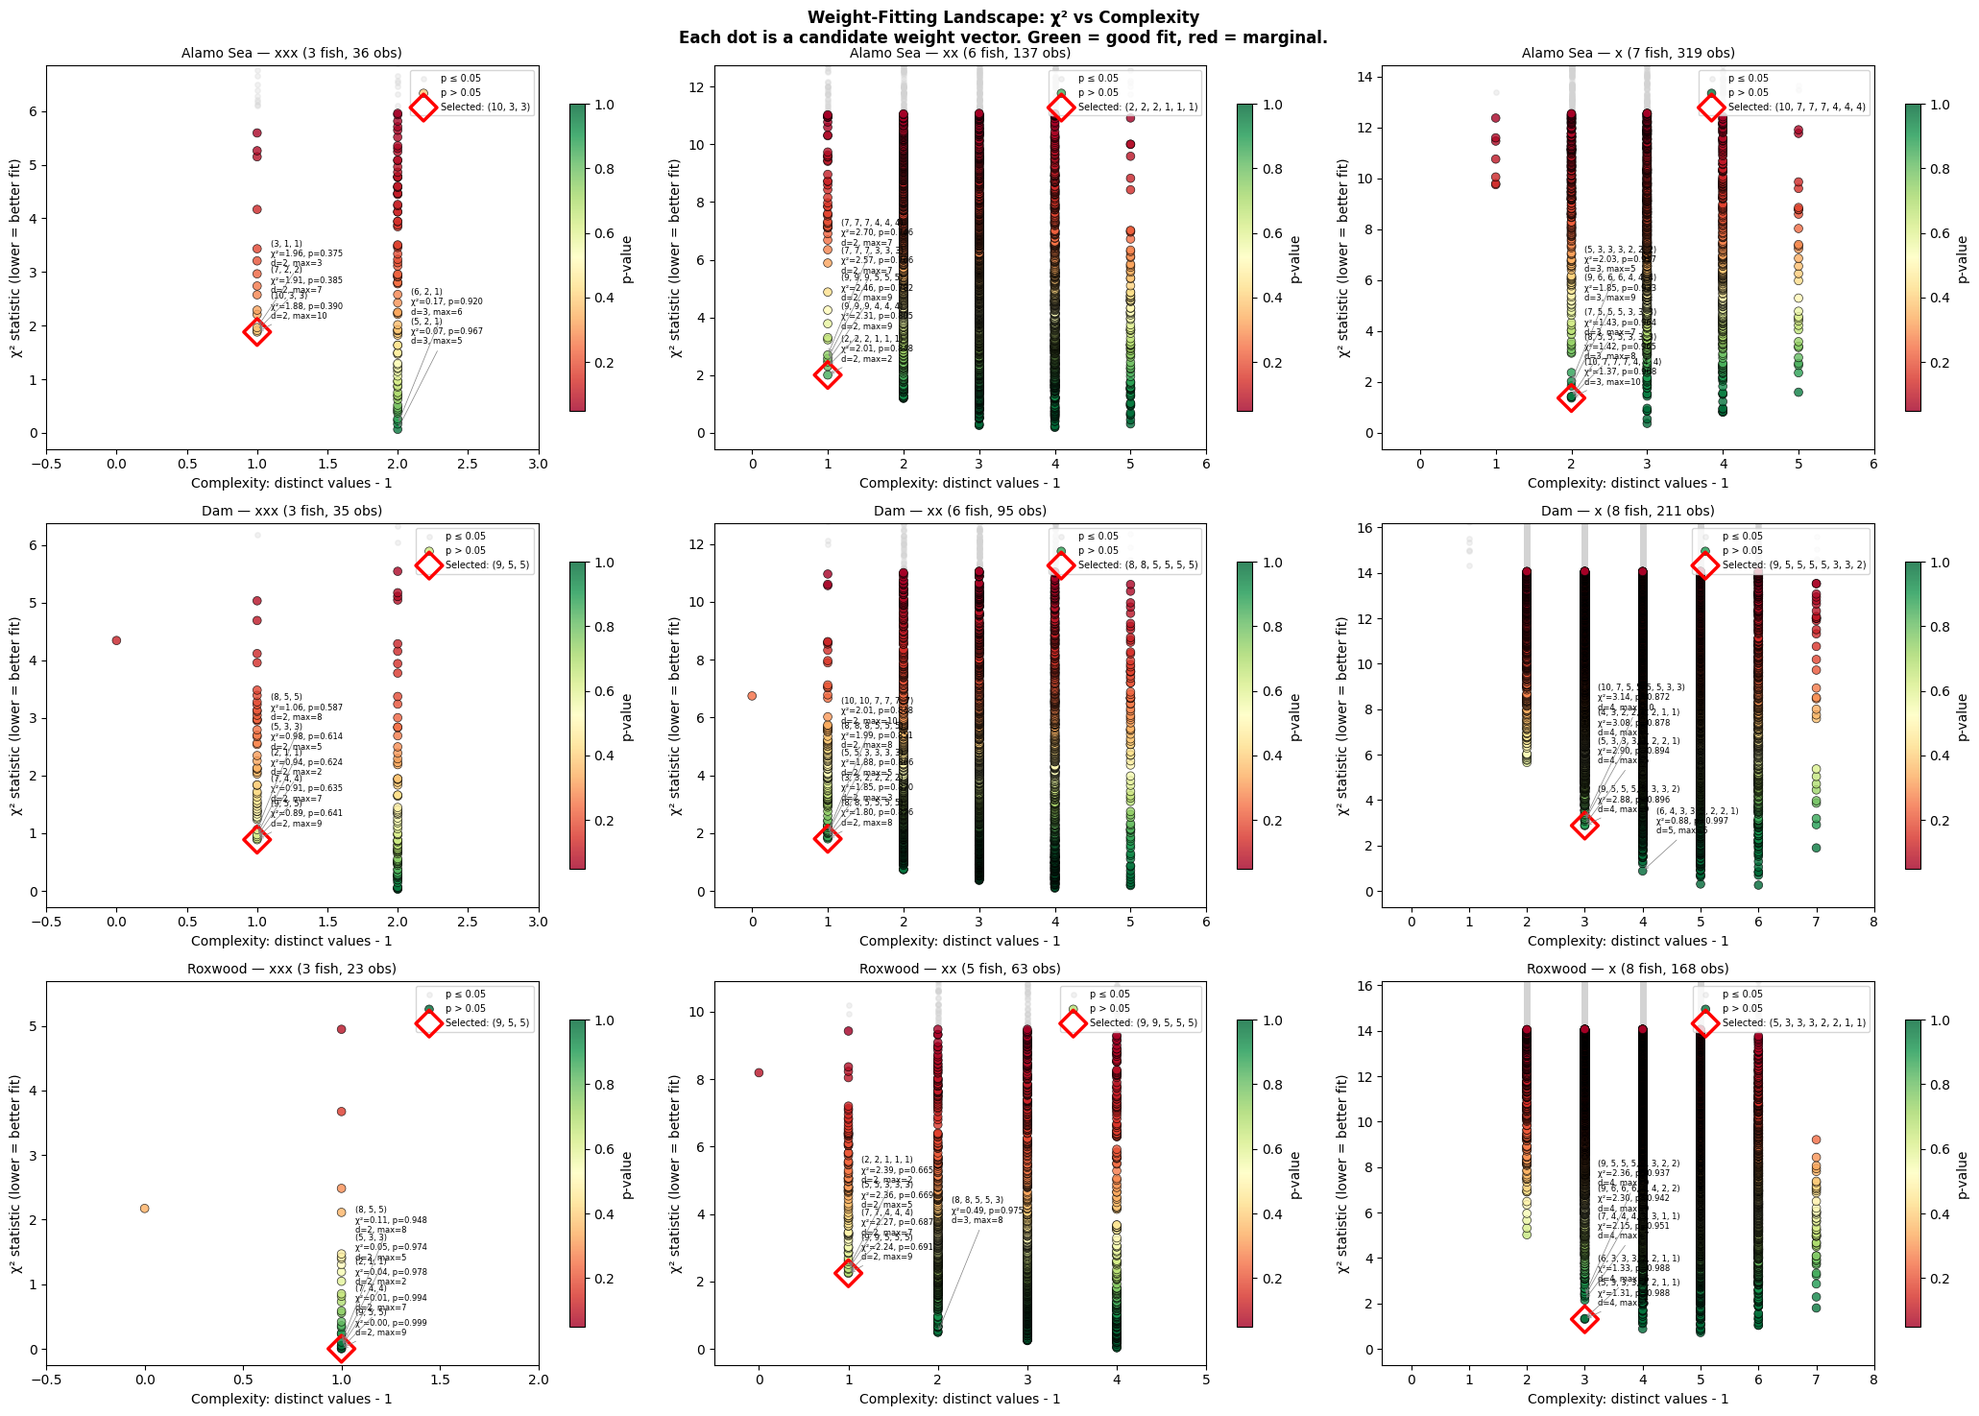
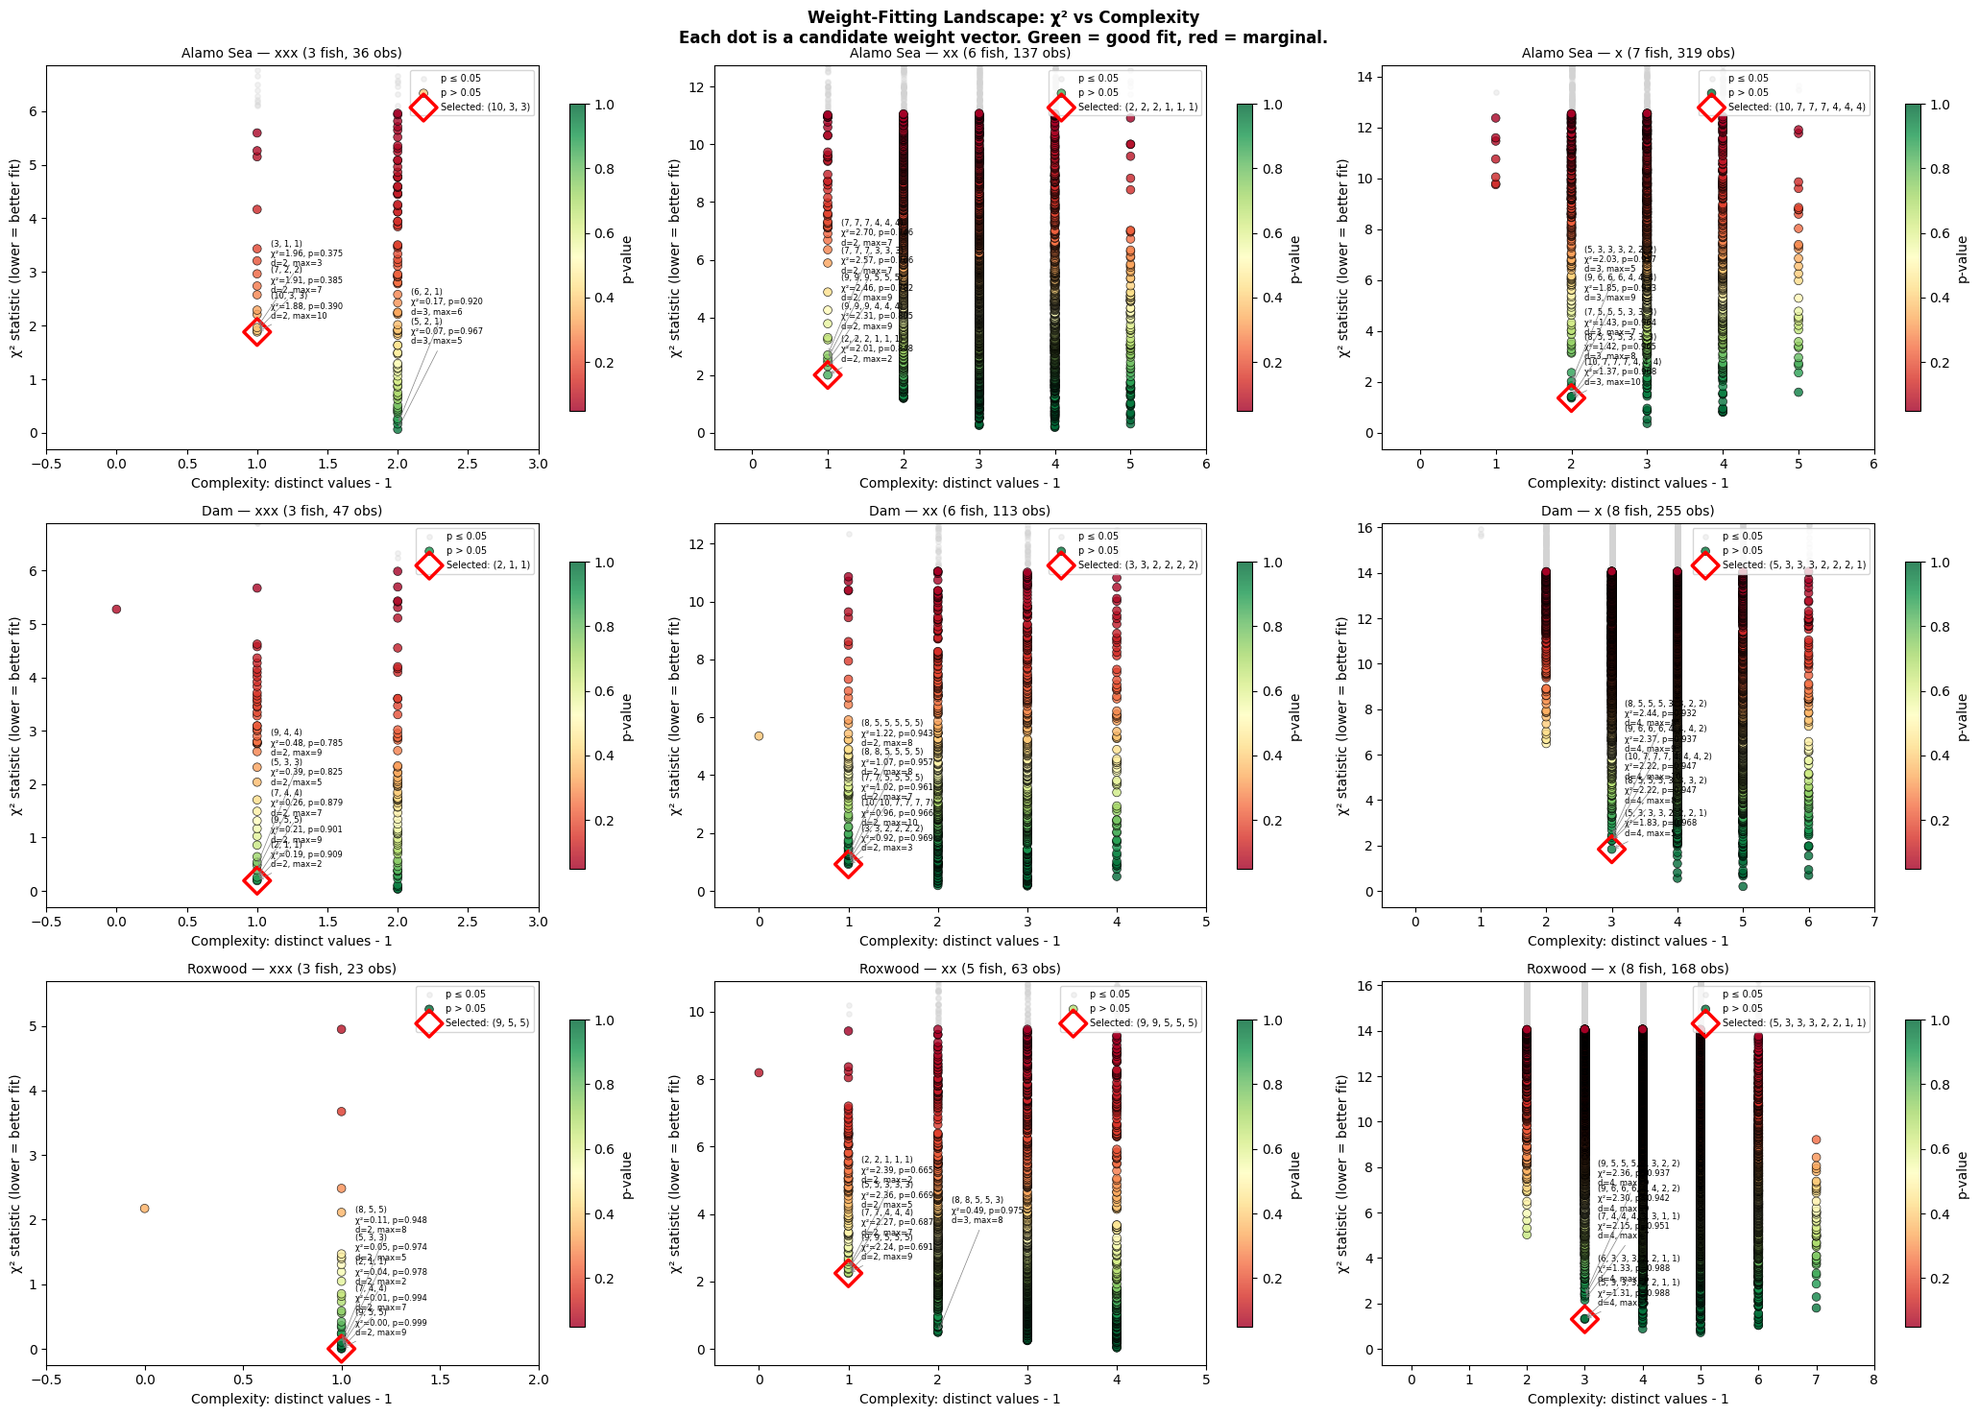
update

diff --git a/sales/constants.py b/sales/constants.py
@@ -177,6 +177,7 @@ FISH_WEIGHTS: dict[str, int] = {
     "Ocean Perch": 300,
     "Red Snapper": 400,
     "Redfish": 300,
+    "Salmon": 400,
     "Sand Whiting": 300,
     "Sandy Sprat": 300,
     "Silver Perch": 400,

diff --git a/sales/comparison.md b/sales/comparison.md
@@ -9,7 +9,7 @@ Bite wait by location: Alamo Sea 90s, Dam 90s, Roxwood 100s. Reel-in by location
 | Location  | Fish Caught | $/Fish observed | $/Fish model | Available Bundles                                     | $/Fish (bundles) | $/Fish total (obs) | $/Fish total (model) | $/Hour (model) |
 |-----------|------------:|----------------:|-------------:|-------------------------------------------------------|-----------------:|-------------------:|---------------------:|---------------:|
 | Alamo Sea |         496 |          $1,489 |       $1,426 | Gold Multizone #1, Alamo Starter, Low Level Multizone |             $661 |             $2,150 |           **$2,086** |        $66,468 |
-| Dam       |         341 |          $1,664 |       $1,664 | Gold Multizone #1, Low Level Multizone                |             $362 |             $2,027 |           **$2,027** |        $62,358 |
+| Dam       |         415 |          $1,669 |       $1,669 | Gold Multizone #1, Low Level Multizone                |             $386 |             $2,055 |           **$2,055** |        $63,220 |
 | Roxwood   |         255 |          $1,802 |       $1,866 | Gold Multizone #1, Low Level Multizone                |             $258 |             $2,060 |           **$2,124** |        $54,233 |
 
 ## Optimal Allocation
@@ -19,12 +19,12 @@ Optimal time split across locations to maximize total $/hour (considering both s
 | Location     | Time % (obs) | $/Fish (obs) | $/Hour (obs) | Time % (model) | $/Fish (model) | $/Hour (model) |
 |--------------|-------------:|-------------:|-------------:|---------------:|---------------:|---------------:|
 | Alamo Sea    |          55% |       $1,489 |      $55,155 |            55% |         $1,426 |        $53,130 |
-| Dam          |          21% |       $1,664 |      $51,207 |            21% |         $1,664 |        $51,207 |
+| Dam          |          21% |       $1,669 |      $51,351 |            21% |         $1,669 |        $51,351 |
 | Roxwood      |          24% |       $1,802 |      $46,003 |            24% |         $1,866 |        $47,641 |
-| **Combined** |         100% |              |  **$56,839** |           100% |                |    **$56,118** |
+| **Combined** |         100% |              |  **$56,869** |           100% |                |    **$56,148** |
 
-**Observed:** splitting yields **$56,839**/hour vs **$55,155**/hour best solo (+$1,684/hour, +3.1%).
-**Model:** splitting yields **$56,118**/hour vs **$53,130**/hour best solo (+$2,988/hour, +5.6%).
+**Observed:** splitting yields **$56,869**/hour vs **$55,155**/hour best solo (+$1,714/hour, +3.1%).
+**Model:** splitting yields **$56,148**/hour vs **$53,130**/hour best solo (+$3,019/hour, +5.7%).
 
 ## Bundle Details
 
@@ -38,8 +38,8 @@ Optimal time split across locations to maximize total $/hour (considering both s
 
 | Bundle              | Fish                             |   Bonus | Avg Fish to Complete | Avg Time | Bonus/Fish | Catch Rates                                                                                                 |
 |---------------------|----------------------------------|--------:|---------------------:|---------:|-----------:|-------------------------------------------------------------------------------------------------------------|
-| Gold Multizone #1   | Bluefin Tuna, Musky, Dolphinfish | $12,750 |                  187 |  373 min |        $68 | Bluefin Tuna @ Alamo Sea: 4/496 (0.8%) \| Musky @ Dam: 17/341 (5.0%) \| Dolphinfish @ Roxwood: 6/255 (2.4%) |
-| Low Level Multizone | Scollop, Carp, Grenadier         | $11,000 |                   57 |  120 min |       $193 | Scollop @ Alamo Sea: 52/496 (10.5%) \| Carp @ Dam: 14/341 (4.1%) \| Grenadier @ Roxwood: 11/255 (4.3%)      |
+| Gold Multizone #1   | Bluefin Tuna, Musky, Dolphinfish | $12,750 |                  185 |  369 min |        $69 | Bluefin Tuna @ Alamo Sea: 4/496 (0.8%) \| Musky @ Dam: 23/415 (5.5%) \| Dolphinfish @ Roxwood: 6/255 (2.4%) |
+| Low Level Multizone | Scollop, Carp, Grenadier         | $11,000 |                   57 |  120 min |       $193 | Scollop @ Alamo Sea: 52/496 (10.5%) \| Carp @ Dam: 17/415 (4.1%) \| Grenadier @ Roxwood: 11/255 (4.3%)      |
 
 ## Drop Rate Analysis
 
@@ -50,9 +50,9 @@ Tier drop rates are consistent across locations, suggesting a fixed game mechani
 | Tier        | Alamo Sea |   Dam | Roxwood | Average |
 |-------------|----------:|------:|--------:|--------:|
 | xxxx purple |      0.2% |  0.0% |    0.4% |    0.2% |
-| xxx         |      7.3% | 10.3% |    9.0% |    8.8% |
-| xx          |     27.6% | 27.9% |   24.7% |   26.7% |
-| x           |     64.3% | 61.9% |   65.9% |   64.0% |
+| xxx         |      7.3% | 11.3% |    9.0% |    9.2% |
+| xx          |     27.6% | 27.2% |   24.7% |   26.5% |
+| x           |     64.3% | 61.4% |   65.9% |   63.9% |
 
 ### Within-Tier Weights
 
@@ -99,46 +99,46 @@ Model fit (25%/20%/20%/15%/10%/10%): χ² = 1.48, p = 0.915 — excellent
 Weight fit: χ² = 1.37, df = 6, p = 0.968 — excellent
 Model fit (20%/15%/15%/15%/10%/10%/10%/5%): χ² = 3.18, p = 0.786 — excellent
 
-#### Dam — xxx (3 fish, 35 observed)
+#### Dam — xxx (3 fish, 47 observed)
 
 | Fish          | Count | Observed % | Weight | Weight % | Model % | Model % (norm) | Residual |
 |---------------|------:|-----------:|-------:|---------:|--------:|---------------:|---------:|
-| Musky         |    17 |      48.6% |      9 |    47.4% |     55% |          55.0% |     -2.2 |
-| Pike          |    11 |      31.4% |      5 |    26.3% |     30% |          30.0% |     +0.5 |
-| Rainbow Trout |     7 |      20.0% |      5 |    26.3% |     15% |          15.0% |     +1.8 |
+| Musky         |    23 |      48.9% |      2 |    50.0% |     55% |          55.0% |     -2.9 |
+| Pike          |    13 |      27.7% |      1 |    25.0% |     30% |          30.0% |     -1.1 |
+| Rainbow Trout |    11 |      23.4% |      1 |    25.0% |     15% |          15.0% |     +4.0 |
 
-Weight fit: χ² = 0.89, df = 2, p = 0.641 — excellent
-Model fit (55%/30%/15%): χ² = 0.87, p = 0.647 — excellent
+Weight fit: χ² = 0.19, df = 2, p = 0.909 — excellent
+Model fit (55%/30%/15%): χ² = 2.61, p = 0.271 — good
 
-#### Dam — xx (6 fish, 95 observed)
+#### Dam — xx (6 fish, 113 observed)
 
 | Fish            | Count | Observed % | Weight | Weight % | Model % | Model % (norm) | Residual |
 |-----------------|------:|-----------:|-------:|---------:|--------:|---------------:|---------:|
-| Atlantic Salmon |    23 |      24.2% |      8 |    22.2% |     25% |          25.0% |     -0.8 |
-| Trevella        |    19 |      20.0% |      8 |    22.2% |     20% |          20.0% |     +0.0 |
-| Trumpetfish     |    16 |      16.8% |      5 |    13.9% |     20% |          20.0% |     -3.0 |
-| Carp            |    14 |      14.7% |      5 |    13.9% |     15% |          15.0% |     -0.2 |
-| Wahoo           |    13 |      13.7% |      5 |    13.9% |     10% |          10.0% |     +3.5 |
-| Sturgeon        |    10 |      10.5% |      5 |    13.9% |     10% |          10.0% |     +0.5 |
+| Atlantic Salmon |    27 |      23.9% |      3 |    21.4% |     25% |          25.0% |     -1.2 |
+| Trevella        |    21 |      18.6% |      3 |    21.4% |     20% |          20.0% |     -1.6 |
+| Sturgeon        |    17 |      15.0% |      2 |    14.3% |     20% |          20.0% |     -5.6 |
+| Carp            |    17 |      15.0% |      2 |    14.3% |     15% |          15.0% |     +0.1 |
+| Trumpetfish     |    16 |      14.2% |      2 |    14.3% |     10% |          10.0% |     +4.7 |
+| Wahoo           |    15 |      13.3% |      2 |    14.3% |     10% |          10.0% |     +3.7 |
 
-Weight fit: χ² = 1.80, df = 5, p = 0.876 — excellent
-Model fit (25%/20%/20%/15%/10%/10%): χ² = 1.82, p = 0.874 — excellent
+Weight fit: χ² = 0.92, df = 5, p = 0.969 — excellent
+Model fit (25%/20%/20%/15%/10%/10%): χ² = 4.72, p = 0.451 — good
 
-#### Dam — x (8 fish, 211 observed)
+#### Dam — x (8 fish, 255 observed)
 
 | Fish                 | Count | Observed % | Weight | Weight % | Model % | Model % (norm) | Residual |
 |----------------------|------:|-----------:|-------:|---------:|--------:|---------------:|---------:|
-| Murray Cod           |    51 |      24.2% |      9 |    24.3% |     20% |          20.0% |     +8.8 |
-| Banded Butterflyfish |    35 |      16.6% |      5 |    13.5% |     15% |          15.0% |     +3.4 |
-| Triggerfish          |    28 |      13.3% |      5 |    13.5% |     15% |          15.0% |     -3.6 |
-| Sand Whiting         |    26 |      12.3% |      5 |    13.5% |     15% |          15.0% |     -5.6 |
-| Cod                  |    25 |      11.8% |      5 |    13.5% |     10% |          10.0% |     +3.9 |
-| Escolar              |    20 |       9.5% |      3 |     8.1% |     10% |          10.0% |     -1.1 |
-| Brook Trout          |    16 |       7.6% |      3 |     8.1% |     10% |          10.0% |     -5.1 |
-| Black Bream          |    10 |       4.7% |      2 |     5.4% |      5% |           5.0% |     -0.6 |
+| Murray Cod           |    61 |      23.9% |      5 |    23.8% |     20% |          20.0% |    +10.0 |
+| Banded Butterflyfish |    41 |      16.1% |      3 |    14.3% |     15% |          15.0% |     +2.8 |
+| Triggerfish          |    37 |      14.5% |      3 |    14.3% |     15% |          15.0% |     -1.2 |
+| Sand Whiting         |    35 |      13.7% |      3 |    14.3% |     15% |          15.0% |     -3.2 |
+| Cod                  |    25 |       9.8% |      2 |     9.5% |     10% |          10.0% |     -0.5 |
+| Escolar              |    25 |       9.8% |      2 |     9.5% |     10% |          10.0% |     -0.5 |
+| Brook Trout          |    19 |       7.5% |      2 |     9.5% |     10% |          10.0% |     -6.5 |
+| Black Bream          |    12 |       4.7% |      1 |     4.8% |      5% |           5.0% |     -0.8 |
 
-Weight fit: χ² = 2.88, df = 7, p = 0.896 — excellent
-Model fit (20%/15%/15%/15%/10%/10%/10%/5%): χ² = 5.66, p = 0.580 — excellent
+Weight fit: χ² = 1.83, df = 7, p = 0.968 — excellent
+Model fit (20%/15%/15%/15%/10%/10%/10%/5%): χ² = 4.20, p = 0.757 — excellent
 
 #### Roxwood — xxx (3 fish, 23 observed)
 

diff --git a/sales/dam.md b/sales/dam.md
@@ -4,21 +4,21 @@
 
 | Fish                 |   Count |        % | Stars | Bundles             |
 |----------------------|--------:|---------:|-------|---------------------|
-| Musky                |      17 |     5.0% | xxx   | Gold Multizone #1   |
-| Pike                 |      11 |     3.2% | xxx   |                     |
-| Rainbow Trout        |       7 |     2.1% | xxx   |                     |
-| Atlantic Salmon      |      23 |     6.7% | xx    |                     |
-| Trevella             |      19 |     5.6% | xx    | Silver Multizone #2 |
-| Trumpetfish          |      16 |     4.7% | xx    |                     |
-| Carp                 |      14 |     4.1% | xx    | Low Level Multizone |
-| Wahoo                |      13 |     3.8% | xx    |                     |
-| Sturgeon             |      10 |     2.9% | xx    |                     |
-| Murray Cod           |      51 |    15.0% | x     |                     |
-| Banded Butterflyfish |      35 |    10.3% | x     |                     |
-| Triggerfish          |      28 |     8.2% | x     |                     |
-| Sand Whiting         |      26 |     7.6% | x     |                     |
-| Cod                  |      25 |     7.3% | x     |                     |
-| Escolar              |      20 |     5.9% | x     |                     |
-| Brook Trout          |      16 |     4.7% | x     | Bronze Multizone #2 |
-| Black Bream          |      10 |     2.9% | x     |                     |
-| **Total**            | **341** | **100%** |       |                     |
+| Musky                |      23 |     5.5% | xxx   | Gold Multizone #1   |
+| Pike                 |      13 |     3.1% | xxx   |                     |
+| Rainbow Trout        |      11 |     2.7% | xxx   |                     |
+| Atlantic Salmon      |      27 |     6.5% | xx    |                     |
+| Trevella             |      21 |     5.1% | xx    | Silver Multizone #2 |
+| Sturgeon             |      17 |     4.1% | xx    |                     |
+| Carp                 |      17 |     4.1% | xx    | Low Level Multizone |
+| Trumpetfish          |      16 |     3.9% | xx    |                     |
+| Wahoo                |      15 |     3.6% | xx    |                     |
+| Murray Cod           |      61 |    14.7% | x     |                     |
+| Banded Butterflyfish |      41 |     9.9% | x     |                     |
+| Triggerfish          |      37 |     8.9% | x     |                     |
+| Sand Whiting         |      35 |     8.4% | x     |                     |
+| Cod                  |      25 |     6.0% | x     |                     |
+| Escolar              |      25 |     6.0% | x     |                     |
+| Brook Trout          |      19 |     4.6% | x     | Bronze Multizone #2 |
+| Black Bream          |      12 |     2.9% | x     |                     |
+| **Total**            | **415** | **100%** |       |                     |

diff --git a/sales/weights.md b/sales/weights.md
@@ -11,7 +11,7 @@ Average $/gram per location, weighted by drop rates. Uses known weights where av
 |--:|----------|----------:|----------------:|-----------:|-----------:|--------------:|-------:|--------------:|---------------:|-----:|---------:|
 | 1 | Alamo Sea | 4.38 | **6.34** | 338g | $1,481 | $661 | 10,762 | $47,185 | $68,232 | 496 | 99% |
 | 2 | Roxwood | 5.34 | **6.12** | 331g | $1,769 | $258 | 8,464 | $45,178 | $51,770 | 255 | 100% |
-| 3 | Dam | 4.85 | **5.91** | 343g | $1,664 | $362 | 10,557 | $51,207 | $62,358 | 341 | 100% |
+| 3 | Dam | 4.85 | **5.97** | 344g | $1,669 | $386 | 10,588 | $51,351 | $63,220 | 415 | 100% |
 
 ### Alamo Sea — Fish by $/gram
 
@@ -59,23 +59,23 @@ Average $/gram per location, weighted by drop rates. Uses known weights where av
 
 | Fish | $/fish | Weight | $/g | Drop % | Stars | Known |
 |------|-------:|-------:|----:|-------:|-------|-------|
-| Pike | $2,150 | 400g | 5.38 | 3.2% | xxx | est. |
-| Rainbow Trout | $2,150 | 400g | 5.38 | 2.1% | xxx | est. |
-| Murray Cod | $1,500 | 300g | 5.00 | 15.0% | x | yes |
-| Banded Butterflyfish | $1,500 | 300g | 5.00 | 10.3% | x | yes |
-| Triggerfish | $1,500 | 300g | 5.00 | 8.2% | x | yes |
-| Sand Whiting | $1,500 | 300g | 5.00 | 7.6% | x | yes |
-| Cod | $1,500 | 300g | 5.00 | 7.3% | x | yes |
-| Escolar | $1,500 | 300g | 5.00 | 5.9% | x | yes |
-| Brook Trout | $1,500 | 300g | 5.00 | 4.7% | x | yes |
+| Pike | $2,150 | 400g | 5.38 | 3.1% | xxx | est. |
+| Rainbow Trout | $2,150 | 400g | 5.38 | 2.7% | xxx | est. |
+| Murray Cod | $1,500 | 300g | 5.00 | 14.7% | x | yes |
+| Banded Butterflyfish | $1,500 | 300g | 5.00 | 9.9% | x | yes |
+| Triggerfish | $1,500 | 300g | 5.00 | 8.9% | x | yes |
+| Sand Whiting | $1,500 | 300g | 5.00 | 8.4% | x | yes |
+| Cod | $1,500 | 300g | 5.00 | 6.0% | x | yes |
+| Escolar | $1,500 | 300g | 5.00 | 6.0% | x | yes |
+| Brook Trout | $1,500 | 300g | 5.00 | 4.6% | x | yes |
 | Black Bream | $1,500 | 300g | 5.00 | 2.9% | x | yes |
-| Atlantic Salmon | $1,850 | 400g | 4.62 | 6.7% | xx | yes |
-| Trevella | $1,850 | 400g | 4.62 | 5.6% | xx | yes |
-| Trumpetfish | $1,850 | 400g | 4.62 | 4.7% | xx | yes |
+| Atlantic Salmon | $1,850 | 400g | 4.62 | 6.5% | xx | yes |
+| Trevella | $1,850 | 400g | 4.62 | 5.1% | xx | yes |
+| Sturgeon | $1,850 | 400g | 4.62 | 4.1% | xx | est. |
 | Carp | $1,850 | 400g | 4.62 | 4.1% | xx | est. |
-| Wahoo | $1,850 | 400g | 4.62 | 3.8% | xx | est. |
-| Sturgeon | $1,850 | 400g | 4.62 | 2.9% | xx | est. |
-| Musky | $2,150 | 500g | 4.30 | 5.0% | xxx | yes |
+| Trumpetfish | $1,850 | 400g | 4.62 | 3.9% | xx | yes |
+| Wahoo | $1,850 | 400g | 4.62 | 3.6% | xx | est. |
+| Musky | $2,150 | 500g | 4.30 | 5.5% | xxx | yes |
 
 ## Ranked by Value Density ($/gram)
 

diff --git a/sales/dam-log.md b/sales/dam-log.md
@@ -76,3 +76,76 @@ Cod	1
 Wahoo	1
 Cod	1
 Atlantic Salmon	1
+Sturgeon	1
+Murray Cod	1
+Murray Cod	1
+Sturgeon	1
+Musky	1
+Atlantic Salmon	1
+Sturgeon	1
+Triggerfish	1
+Trevella	1
+Pike	1
+Murray Cod	1
+Escolar	1
+Murray Cod	1
+Wahoo	1
+Carp	1
+Sand Whiting	1
+Rainbow Trout	1
+Sand Whiting	1
+Sand Whiting	1
+Carp	1
+Triggerfish	1
+Murray Cod	1
+Triggerfish	1
+Musky	1
+Sturgeon	1
+Musky	1
+Sturgeon	1
+Banded Butterflyfish	1
+Triggerfish	1
+Triggerfish	1
+Trevella	1
+Brook Trout	1
+Brook Trout	1
+Murray Cod	1
+Pike	1
+Escolar	1
+Atlantic Salmon	1
+Sand Whiting	1
+Black Bream	1
+Carp	1
+Sand Whiting	1
+Wahoo	1
+Black Bream	1
+Banded Butterflyfish	1
+Triggerfish	1
+Musky	1
+Murray Cod	1
+Atlantic Salmon	1
+Murray Cod	1
+Banded Butterflyfish	1
+Banded Butterflyfish	1
+Murray Cod	1
+Brook Trout	1
+Escolar	1
+Escolar	1
+Rainbow Trout	1
+Sand Whiting	1
+Sand Whiting	1
+Sand Whiting	1
+Rainbow Trout	1
+Rainbow Trout	1
+Sand Whiting	1
+Musky	1
+Sturgeon	1
+Musky	1
+Triggerfish	1
+Banded Butterflyfish	1
+Sturgeon	1
+Banded Butterflyfish	1
+Triggerfish	1
+Triggerfish	1
+Escolar	1
+Murray Cod	1
